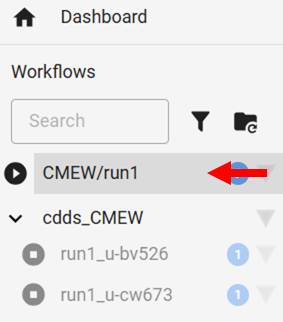
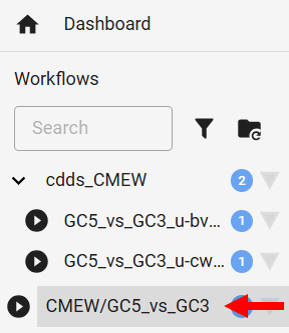
Changing run name

diff --git a/doc/source/tutorials/cloning_running_cmew/tutorial_part_6.rst b/doc/source/tutorials/cloning_running_cmew/tutorial_part_6.rst
@@ -32,22 +32,21 @@ Once these details have been entered, a dashboard will display all running Cylc 
 2) Inspect the |CMEW| workflow
 ------------------------------
 
-On the left hand side, you will notice a workflow called "CMEW/run<X>",
-where X is likely the digit 1.
+On the left hand side, you will notice a workflow called "CMEW/GC5_vs_GC3".
 
 .. image:: images/cylc_gui_cmew_run.png
    :alt: An image of the Workflows panel
-         of the Cylc GUI
-         showing the text "CMEW/run1", and,
+         of the Cylc GUI showing,
          under the heading "cdds_CMEW",
-         the text "run1_u-bv526"
-         and "run1_u-cw673".
+         the text "GC5_vs_GC3_u-bv526"
+         and "GC5_vs_GC3_u-cw673",
+         all above the text "CMEW/GC5_vs_GC3".
    :width: 200px
 
 The "play" arrow [triangle] to the left of the workflow name indicates that the workflow is still running.
 
-If we click the text of the workflow name,
+If we click the text of the workflow name
 we will notice various tasks starting, running and finishing.
 
 We can tell that the whole workflow is complete once a "stop" square replaces the triangle.
-We will also notice that the text "CMEW/run<X>" turns grey rather than black at this time.
+We will also notice that the text "CMEW/GC5_vs_GC3" turns grey rather than black at this time.

diff --git a/doc/source/tutorials/cloning_running_cmew/tutorial_part_7.rst b/doc/source/tutorials/cloning_running_cmew/tutorial_part_7.rst
@@ -14,10 +14,10 @@ The style of the pages will be determined by whether the assessment tool was Aut
 
 In your terminal, type the commands::
 
-   cd ~/cylc_run/CMEW/runN/
+   cd ~/cylc_run/CMEW/GC5_vs_GC3/
    ls
 
-This takes us to the directory for the most recent run of |CMEW|,
+This takes us to the directory for our tutorial run of |CMEW|,
 and displays the contents.
 
 All of the output is in subdirectories of the shared directory for the cycle.
@@ -93,14 +93,8 @@ Here we will notice an *extra* graph, for dataset "ACCESS-CM2",
 that we did not enter into our datasets section earlier on.
 Let's find out where the instruction to include this dataset came from.
 
-In your terminal, bring up the Rose GUI::
-
-   cd ~/cmew_tutorial/CMEW
-   rose edit
-
 Navigate to the dataset information in the Rose GUI:
- - click the arrow next to **suite conf**, then
- - click the arrow next to **Datasets**, then
+ - under the section **Datasets**,
  - click the arrow next to **Extra CMIP6 datasets for ESMValTool**, then
  - select the option **1**.
 

diff --git a/doc/source/tutorials/cloning_running_cmew/tutorial_part_5.rst b/doc/source/tutorials/cloning_running_cmew/tutorial_part_5.rst
@@ -26,7 +26,7 @@ click the filing cabinet to save the changes to the suite.
 
 Using our terminal window from earlier in the tutorial,
 which is still pointing to ``~/cmew_tutorial/CMEW``
-(the directory containing the ``flow.cylc`` file,
+(the directory containing the ``flow.cylc`` file),
 type the command::
 
     cylc vip -O metoffice --run-name GC5_vs_GC3
